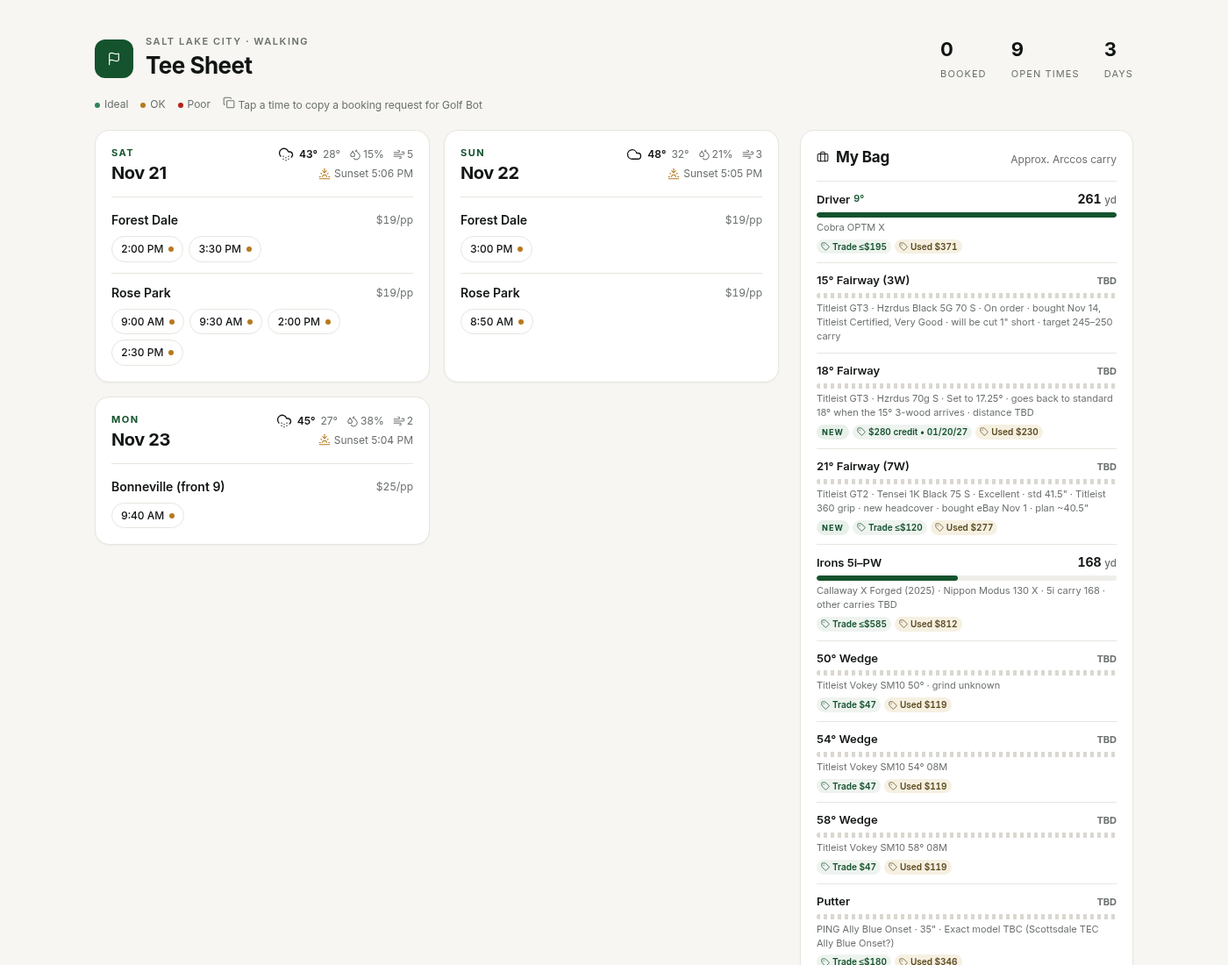
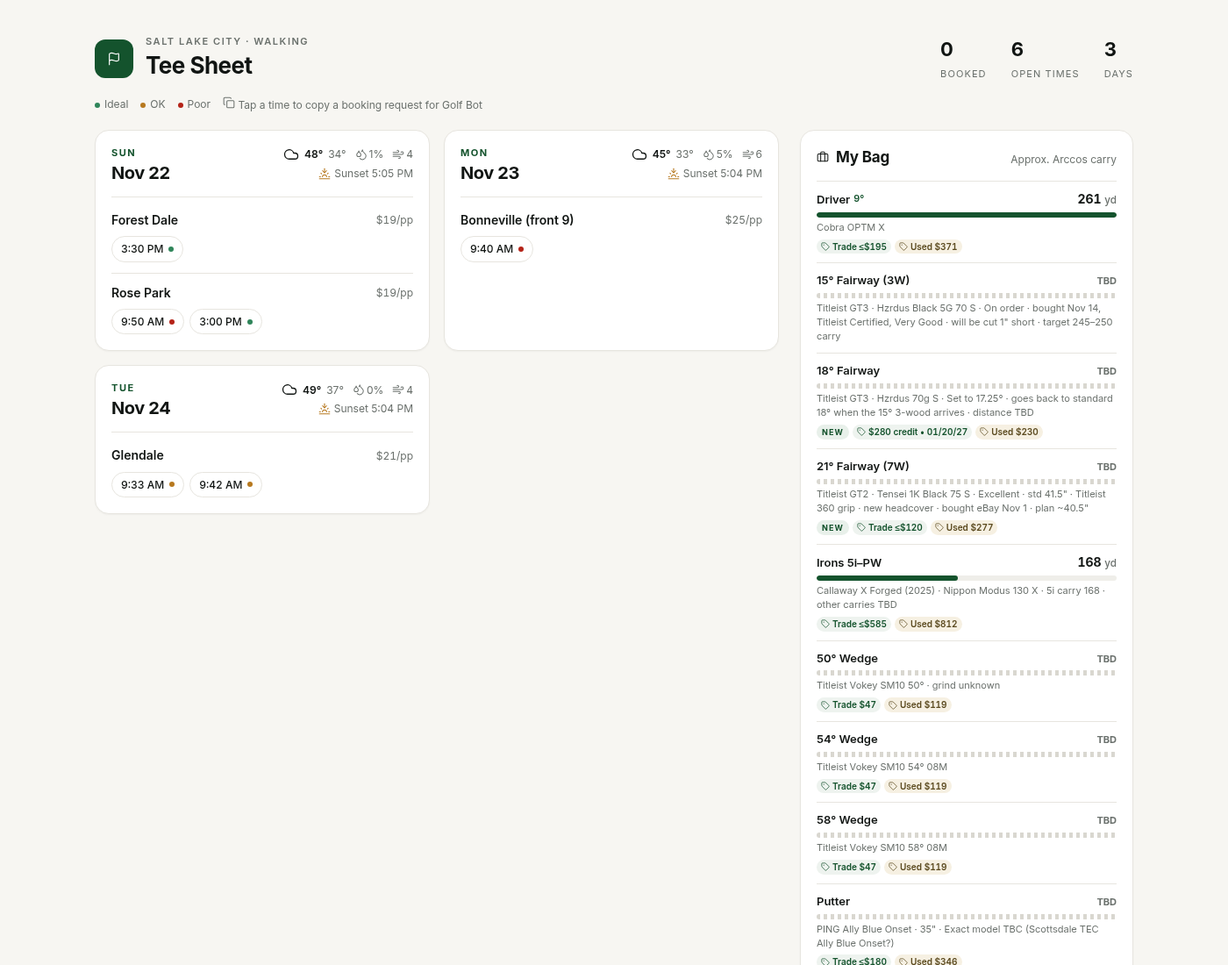
Update schedule 2026-11-21 20:24 MT

diff --git a/index.html b/index.html
@@ -47,10 +47,10 @@ ul{list-style:none;margin:0;padding:0}.ladder{border-top:1px solid var(--ln)}
 @media(max-width:560px){.wrap{padding:22px 16px 48px}h1{font-size:22px}.stats{gap:20px}.grid{grid-template-columns:1fr}}
 </style></head><body><div class="wrap">
 <div class="top"><div class="brand"><div class="logo"><i data-lucide="flag" class="ic "></i></div><div><div class="eyebrow">Salt Lake City · Walking</div><h1>Tee Sheet</h1></div></div>
-<div class="stats"><div class="stat"><b>0</b><span>Booked</span></div><div class="stat"><b>9</b><span>Open times</span></div><div class="stat"><b>3</b><span>Days</span></div></div></div>
+<div class="stats"><div class="stat"><b>0</b><span>Booked</span></div><div class="stat"><b>6</b><span>Open times</span></div><div class="stat"><b>3</b><span>Days</span></div></div></div>
 <div class="legend"><span><i class="dot ideal"></i>Ideal</span><span><i class="dot ok"></i>OK</span><span><i class="dot poor"></i>Poor</span><span><i data-lucide="copy" class="ic s"></i> Tap a time to copy a booking request for Golf Bot</span></div>
-<div class="layout"><div class="grid"><section class="card day"><header><div><div class="dow">Sat</div><div class="dt">Nov 21</div></div><div class="wxc"><div class="sum" title="🌨 Snow (7a–7p)"><i data-lucide="cloud-snow" class="ic "></i><span class="hi">43°</span><span class="lo">28°</span><span class="m"><i data-lucide="droplets" class="ic s"></i>15%</span><span class="m"><i data-lucide="wind" class="ic s"></i>5</span></div><div class="sun"><i data-lucide="sunset" class="ic s"></i>Sunset 5:06 PM</div></div></header><div class="crs"><div class="row"><span class="cn">Forest Dale</span><span class="pr">$19/pp</span></div><div class="tts"><button class="tt ok" data-msg="Book Forest Dale Sat Nov 21 2:00 PM" title="🌨 Snow · 43°F · 15% precip · 5 mph · tap to copy booking request" aria-label="Copy: Book Forest Dale Sat Nov 21 2:00 PM" onclick="cp(this)"><span>2:00 PM</span><i class="dot"></i></button><button class="tt ok" data-msg="Book Forest Dale Sat Nov 21 3:30 PM" title="🌨 Snow · 43°F · 15% precip · 5 mph · tap to copy booking request" aria-label="Copy: Book Forest Dale Sat Nov 21 3:30 PM" onclick="cp(this)"><span>3:30 PM</span><i class="dot"></i></button></div></div><div class="crs"><div class="row"><span class="cn">Rose Park</span><span class="pr">$19/pp</span></div><div class="tts"><button class="tt ok" data-msg="Book Rose Park Sat Nov 21 9:00 AM" title="🌨 Snow · 43°F · 15% precip · 5 mph · tap to copy booking request" aria-label="Copy: Book Rose Park Sat Nov 21 9:00 AM" onclick="cp(this)"><span>9:00 AM</span><i class="dot"></i></button><button class="tt ok" data-msg="Book Rose Park Sat Nov 21 9:30 AM" title="🌨 Snow · 43°F · 15% precip · 5 mph · tap to copy booking request" aria-label="Copy: Book Rose Park Sat Nov 21 9:30 AM" onclick="cp(this)"><span>9:30 AM</span><i class="dot"></i></button><button class="tt ok" data-msg="Book Rose Park Sat Nov 21 2:00 PM" title="🌨 Snow · 43°F · 15% precip · 5 mph · tap to copy booking request" aria-label="Copy: Book Rose Park Sat Nov 21 2:00 PM" onclick="cp(this)"><span>2:00 PM</span><i class="dot"></i></button><button class="tt ok" data-msg="Book Rose Park Sat Nov 21 2:30 PM" title="🌨 Snow · 43°F · 15% precip · 5 mph · tap to copy booking request" aria-label="Copy: Book Rose Park Sat Nov 21 2:30 PM" onclick="cp(this)"><span>2:30 PM</span><i class="dot"></i></button></div></div></section><section class="card day"><header><div><div class="dow">Sun</div><div class="dt">Nov 22</div></div><div class="wxc"><div class="sum" title="☁ Overcast (7a–7p)"><i data-lucide="cloud" class="ic "></i><span class="hi">48°</span><span class="lo">32°</span><span class="m"><i data-lucide="droplets" class="ic s"></i>21%</span><span class="m"><i data-lucide="wind" class="ic s"></i>3</span></div><div class="sun"><i data-lucide="sunset" class="ic s"></i>Sunset 5:05 PM</div></div></header><div class="crs"><div class="row"><span class="cn">Forest Dale</span><span class="pr">$19/pp</span></div><div class="tts"><button class="tt ok" data-msg="Book Forest Dale Sun Nov 22 3:00 PM" title="☁ Overcast · 48°F · 21% precip · 3 mph · tap to copy booking request" aria-label="Copy: Book Forest Dale Sun Nov 22 3:00 PM" onclick="cp(this)"><span>3:00 PM</span><i class="dot"></i></button></div></div><div class="crs"><div class="row"><span class="cn">Rose Park</span><span class="pr">$19/pp</span></div><div class="tts"><button class="tt ok" data-msg="Book Rose Park Sun Nov 22 8:50 AM" title="☁ Overcast · 48°F · 21% precip · 3 mph · tap to copy booking request" aria-label="Copy: Book Rose Park Sun Nov 22 8:50 AM" onclick="cp(this)"><span>8:50 AM</span><i class="dot"></i></button></div></div></section><section class="card day"><header><div><div class="dow">Mon</div><div class="dt">Nov 23</div></div><div class="wxc"><div class="sum" title="🌨 Snow (7a–7p)"><i data-lucide="cloud-snow" class="ic "></i><span class="hi">45°</span><span class="lo">27°</span><span class="m"><i data-lucide="droplets" class="ic s"></i>38%</span><span class="m"><i data-lucide="wind" class="ic s"></i>2</span></div><div class="sun"><i data-lucide="sunset" class="ic s"></i>Sunset 5:04 PM</div></div></header><div class="crs"><div class="row"><span class="cn">Bonneville (front 9)</span><span class="pr">$25/pp</span></div><div class="tts"><button class="tt ok" data-msg="Book Bonneville (front 9) Mon Nov 23 9:40 AM" title="🌨 Snow · 45°F · 38% precip · 2 mph · tap to copy booking request" aria-label="Copy: Book Bonneville (front 9) Mon Nov 23 9:40 AM" onclick="cp(this)"><span>9:40 AM</span><i class="dot"></i></button></div></div></section></div><section class="card bag"><header><h2><i data-lucide="briefcase" class="ic s"></i>My Bag</h2><span class="muted">Approx. Arccos carry</span></header><ul class="ladder"><li class="lad"><div class="l1"><div class="cname">Driver <small>9°</small></div><div class="yd">261 <small>yd</small></div></div><div class="bar"><span style="width:100%"></span></div><div class="muted">Cobra OPTM X</div><div class=bdg><span class="val" title="On in Two trade-in (up-to ceiling) · Cobra OPTM X driver · 2026-11-16"><i data-lucide="tag" class="ic xs"></i>Trade ≤$195</span><span class="val used" title="2nd Swing used OPTM X Stiff: 9° Mint $379.99 (Kai&#x27;li White 60), 10.5° Above Average $362.99 · 2026-11-02"><i data-lucide="tag" class="ic xs"></i>Used $371</span></div></li><li class="lad"><div class="l1"><div class="cname">15° Fairway (3W)</div><div class="yd muted">TBD</div></div><div class="bar tbd"><span></span></div><div class="muted">Titleist GT3 · Hzrdus Black 5G 70 S · On order · bought Nov 14, Titleist Certified, Very Good · will be cut 1&quot; short · target 245–250 carry</div></li><li class="lad"><div class="l1"><div class="cname">18° Fairway</div><div class="yd muted">TBD</div></div><div class="bar tbd"><span></span></div><div class="muted">Titleist GT3 · Hzrdus 70g S · Set to 17.25° · goes back to standard 18° when the 15° 3-wood arrives · distance TBD</div><div class=bdg><span class="pill sm">New</span><span class="val" title="Uinta Golf 90-day guarantee, bought Oct 22, 2026 · 2026-10-22"><i data-lucide="tag" class="ic xs"></i>$280 credit • 01/20/27</span><span class="val used" title="Global Golf used GT3 fairway Excellent $229.99; eBay sold GT3 18° 5W median $231 (Teeworth, 90 days) · 2026-10-26"><i data-lucide="tag" class="ic xs"></i>Used $230</span></div></li><li class="lad"><div class="l1"><div class="cname">21° Fairway (7W)</div><div class="yd muted">TBD</div></div><div class="bar tbd"><span></span></div><div class="muted">Titleist GT2 · Tensei 1K Black 75 S · Excellent · std 41.5&quot; · Titleist 360 grip · new headcover · bought eBay Nov 1 · plan ~40.5&quot;</div><div class=bdg><span class="pill sm">New</span><span class="val" title="On in Two trade-in (up-to ceiling, excellent) · Titleist GT2 fairway · 2026-11-16"><i data-lucide="tag" class="ic xs"></i>Trade ≤$120</span><span class="val used" title="Avg of Global Golf GT2 Very Good $264.99 and Next Round GT2 Excellent $289.99; eBay sold median $200 (45 sales, Face Value Golf) · 2026-10-26"><i data-lucide="tag" class="ic xs"></i>Used $277</span></div></li><li class="lad"><div class="l1"><div class="cname">Irons 5i–PW</div><div class="yd">168 <small>yd</small></div></div><div class="bar"><span style="width:47%"></span></div><div class="muted">Callaway X Forged (2025) · Nippon Modus 130 X · 5i carry 168 · other carries TBD</div><div class=bdg><span class="val" title="On in Two trade-in (up-to ceiling) · Callaway 2025 X Forged iron set; set composition/shaft not specified, so 5i–PW offer may differ · 2026-11-16"><i data-lucide="tag" class="ic xs"></i>Trade ≤$585</span><span class="val used" title="FairwayWire eBay sold avg, X Forged 2025 set (18 sales, mostly 4-PW, mixed shafts); Excellent/Very Good sales $986–$1,200 · 2026-10-26"><i data-lucide="tag" class="ic xs"></i>Used $812</span></div></li><li class="lad"><div class="l1"><div class="cname">50° Wedge</div><div class="yd muted">TBD</div></div><div class="bar tbd"><span></span></div><div class="muted">Titleist Vokey SM10 50° · grind unknown</div><div class=bdg><span class="val" title="2nd Swing store credit via Face Value Golf (SM10 family, avg cond., checked Nov 14); best cash $45–47 · 2026-11-16"><i data-lucide="tag" class="ic xs"></i>Trade $47</span><span class="val used" title="Titleist Certified Pre-Owned SM10 Excellent $119 · 2026-10-26"><i data-lucide="tag" class="ic xs"></i>Used $119</span></div></li><li class="lad"><div class="l1"><div class="cname">54° Wedge</div><div class="yd muted">TBD</div></div><div class="bar tbd"><span></span></div><div class="muted">Titleist Vokey SM10 54° 08M</div><div class=bdg><span class="val" title="2nd Swing store credit via Face Value Golf (SM10 family, avg cond., checked Nov 14); best cash $45–47 · 2026-11-16"><i data-lucide="tag" class="ic xs"></i>Trade $47</span><span class="val used" title="Titleist Certified Pre-Owned SM10 Excellent $119 · 2026-10-26"><i data-lucide="tag" class="ic xs"></i>Used $119</span></div></li><li class="lad"><div class="l1"><div class="cname">58° Wedge</div><div class="yd muted">TBD</div></div><div class="bar tbd"><span></span></div><div class="muted">Titleist Vokey SM10 58° 08M</div><div class=bdg><span class="val" title="2nd Swing store credit via Face Value Golf (SM10 family, avg cond., checked Nov 14); best cash $45–47 · 2026-11-16"><i data-lucide="tag" class="ic xs"></i>Trade $47</span><span class="val used" title="Titleist Certified Pre-Owned SM10 Excellent $119 · 2026-10-26"><i data-lucide="tag" class="ic xs"></i>Used $119</span></div></li><li class="lad"><div class="l1"><div class="cname">Putter</div><div class="yd muted">TBD</div></div><div class="bar tbd"><span></span></div><div class="muted">PING Ally Blue Onset · 35&quot; · Exact model TBC (Scottsdale TEC Ally Blue Onset?)</div><div class=bdg><span class="val" title="On in Two trade-in (up-to ceiling) · Scottsdale TEC Ally Blue Onset; PLD SE Ally Blue 4 Onset $185 · 2026-11-16"><i data-lucide="tag" class="ic xs"></i>Trade ≤$180</span><span class="val used" title="ClubChecks used target, Scottsdale TEC Ally Blue Onset; Carl&#x27;s Golfland 35&quot; Very Good $349.99 · 2026-10-26"><i data-lucide="tag" class="ic xs"></i>Used $346</span></div></li></ul><div class="subs"><div class="sub"><h3><i data-lucide="repeat" class="ic s"></i>Flagged to replace</h3><ul class="lst replace"><li><div class="it"><div class="l1"><div class="cname">Callaway X Forged irons</div></div><div class="muted">Considering trade for P7CB heads, same Modus 130 X</div><div class=bdg><span class="val" title="Jason: trade-in guarantee value, trade by Nov 15, 2026 (deadline approx., per Jason) · 2026-10-26"><i data-lucide="tag" class="ic xs"></i>$1400 credit • 11/15/26</span><span class="val used" title="FairwayWire eBay sold avg, X Forged 2025 set (18 sales, mostly 4-PW, mixed shafts); Excellent/Very Good sales $986–$1,200 · 2026-10-26"><i data-lucide="tag" class="ic xs"></i>Used $812</span></div></div></li></ul></div><div class="sub"><h3><i data-lucide="pause-circle" class="ic s"></i>Sidelined</h3><ul class="lst sidelined"><li><div class="it"><div class="l1"><div class="cname">Odyssey Jailbird Mini · slant neck 35&quot;</div></div><div class="muted">Keep, go back to, or trade?</div><div class=bdg><span class="val" title="On in Two trade-in ceilings: Ai-ONE Jailbird Mini S $95 – Ai-DUAL Jailbird Mini $105 (exact version TBC) · 2026-11-16"><i data-lucide="tag" class="ic xs"></i>Trade $95–105</span><span class="val used" title="Golf Club Index avg sold, Odyssey Ai-ONE Jailbird Mini (exact version TBC) · 2026-10-26"><i data-lucide="tag" class="ic xs"></i>Used $194</span></div></div></li><li><div class="it"><div class="l1"><div class="cname">3 Hybrid</div><div class=yd>195 <small>yd</small></div></div><div class="muted">Sidelined Nov 8, 2026 · was flagged to come out when the 21° GT goes in</div><div class=bdg><span class="val" title="On in Two trade-in (up-to ceiling) · 2026-11-16"><i data-lucide="tag" class="ic xs"></i>Trade ≤$70</span><span class="val used" title="Face Value Golf typical used asking, Paradym Super hybrid Above Average grade (Callaway Pre-Owned from $120 Avg) · 2026-10-26"><i data-lucide="tag" class="ic xs"></i>Used $178</span></div></div></li><li><div class="it"><div class="l1"><div class="cname">5 Hybrid</div><div class=yd>186 <small>yd</small></div></div><div class="muted">Sidelined Nov 15, 2026 · comes out when the 15° 3-wood goes in</div><div class=bdg><span class="val" title="On in Two trade-in (up-to ceiling) · 2026-11-16"><i data-lucide="tag" class="ic xs"></i>Trade ≤$70</span><span class="val used" title="Face Value Golf typical used asking, Paradym Super hybrid Above Average grade (Callaway Pre-Owned from $120 Avg) · 2026-10-26"><i data-lucide="tag" class="ic xs"></i>Used $178</span></div></div></li></ul></div><div class="sub"><h3><i data-lucide="plus-circle" class="ic s"></i>Interested in adding</h3><ul class="lst add"><li><div class="it"><div class="l1"><div class="cname">TaylorMade P7CB irons</div></div><div class="muted">Same Modus 130 X shafts</div><div class=bdg><span class="val" title="Face Value Golf: best cash offer, iGolf Value Guide, 7-club set, Average ($61.50/club), checked Oct 11 · 2026-10-26"><i data-lucide="tag" class="ic xs"></i>Trade $431 set</span><span class="val used" title="Face Value Golf typical used asking, 7-club set, median of 44 listings (Average or better), checked Oct 11; Global Golf Average 4-PW $760 · 2026-10-26"><i data-lucide="tag" class="ic xs"></i>Used $859</span></div></div></li><li><div class="it"><div class="l1"><div class="cname">Titleist Vokey SM10 46° 10F</div></div><div class="muted">Backup PW option if the X Forged PW doesn&#x27;t work out or gets damaged; not in the bag</div><div class=bdg><span class="val" title="2nd Swing store credit via Face Value Golf (SM10 family, avg cond.) · 2026-10-23"><i data-lucide="tag" class="ic xs"></i>Trade $47</span><span class="val used" title="Titleist Certified Pre-Owned SM10 Excellent $119 · 2026-10-26"><i data-lucide="tag" class="ic xs"></i>Used $119</span></div></div></li></ul></div><div class="sub"><h3><i data-lucide="archive" class="ic s"></i>Retired</h3><ul class="lst retired"><li><div class="it"><div class="l1"><div class="cname">Paradym Ai Smoke Max 3W</div></div><div class="muted">~211 yd, right miss · traded in for GT3 18° at Uinta Golf, Oct 2026</div></div></li></ul></div></div></section></div><section class="card lenchart"><header><h2><i data-lucide="ruler" class="ic s"></i>Titleist GT/GTS woods + GT1 hybrid lengths</h2></header><div class="tw"><table><thead><tr><th>Loft</th><th>Club</th><th>Models</th><th>Std</th><th>−½"</th><th>−1"</th></tr></thead><tbody><tr><td>13.5°</td><td>3-wood</td><td class="muted">GT2, GTS2</td><td>43"</td><td>42.5"</td><td>42"</td></tr><tr><td>15°</td><td>3-wood</td><td class="muted">GT1, GT2, GT3, GTS</td><td>43"</td><td>42.5"</td><td>42"</td></tr><tr><td>16.5°</td><td>4-wood</td><td class="muted">GT2, GT3, GTS</td><td>43"</td><td>42.5"</td><td>42"</td></tr><tr class="inbag"><td>18°</td><td>5-wood (mine, GT3) <span class="mtag">In bag</span></td><td class="muted">GT1, GT2, GT3, GTS</td><td>42"</td><td class=hl>41.5"</td><td>41"</td></tr><tr><td>20°</td><td>4-hybrid</td><td class="muted">GT1 hybrid</td><td>40.5"</td><td>40"</td><td>39.5"</td></tr><tr class="inbag"><td>21°</td><td>7-wood <span class="mtag">In bag</span></td><td class="muted">GT1, GT2, GTS</td><td>41.5"</td><td>41"</td><td class=hl>40.5"</td></tr><tr class="target"><td>23°</td><td>5-hybrid <span class="mtag">Target</span> <span class="muted">set to 24.5°</span></td><td class="muted">GT1 hybrid</td><td>40"</td><td>39.5"</td><td>39"</td></tr><tr class="target"><td>24°</td><td>9-wood <span class="mtag">Target</span></td><td class="muted">GT1 only</td><td>41"</td><td>40.5"</td><td class=hl>40"</td></tr><tr><td>26°</td><td>6-hybrid</td><td class="muted">GT1 hybrid</td><td>39.5"</td><td>39"</td><td>38.5"</td></tr><tr><td>29°</td><td>7-hybrid</td><td class="muted">GT1 hybrid</td><td>39"</td><td>38.5"</td><td>38"</td></tr></tbody></table></div><p class="muted">Row marks: In bag (GT3 18° 5-wood, GT2 21° 7-wood set 22.5°) and Target (GT1 23° hybrid set 24.5°, GT1 24° 9-wood). Highlighted cells = shortening plan in ~½" steps (5-wood 41.5", 7-wood ~40.5" or 9-wood ~40"). GT1 23° hybrid is already 40" stock. Add ~2g head weight per ½" cut. GT1 hybrids ship with a .335" fairway tip unless custom-ordered with .370". Source: Titleist specs.</p></section>
-<div class="foot"><i data-lucide="refresh-cw" class="ic s"></i>Updated Sat Nov 21 · 7:36 AM MT · Checked 7:34 AM MST Nov 21. Chronogolf Upcoming empty. Times on the sheet take 1 or 1–2 players. Saturday: Glendale and Bonneville had no times listed. Forest Dale 2:00 and 3:30 PM (1–2); Rose Park 9:00 and 9:30 AM (single only), 2:00 and 2:30 PM (1–2). Saturday 2+: Forest Dale 9:30, 9:40, 9:50 AM and 2:50, 3:10, 3:20, 3:40 PM; Rose Park 8:40–9:50 AM except 9:00 and 9:30, and 2:10, 2:20, 2:40, 2:50, 3:00 PM. Sunday: Glendale had no times listed. Forest Dale 3:00 PM (1–2); Rose Park 8:50 AM (1–2). Sunday 2+: Bonneville 10th tee 9:30, 9:40, 9:50 AM ($23); Bonneville front 2:20–3:00 PM; Forest Dale 3:10–3:30 PM; Rose Park 9:10 AM and 2:00–3:00 PM. Monday: Bonneville 9:40 AM (single only). Monday 2+: Glendale front 2:03–2:57 PM; Bonneville 9:50 AM and 2:00–3:00 PM; Forest Dale 9:50 AM and 2:00–3:30 PM; Rose Park 8:30–9:50 AM and 2:00–3:00 PM. Mick Riley is closed for the off season. Walking vs cart not shown. ForeUp unverified. · Weather: NWS</div></div>
+<div class="layout"><div class="grid"><section class="card day"><header><div><div class="dow">Sun</div><div class="dt">Nov 22</div></div><div class="wxc"><div class="sum" title="☁ Overcast (7a–7p)"><i data-lucide="cloud" class="ic "></i><span class="hi">48°</span><span class="lo">34°</span><span class="m"><i data-lucide="droplets" class="ic s"></i>1%</span><span class="m"><i data-lucide="wind" class="ic s"></i>4</span></div><div class="sun"><i data-lucide="sunset" class="ic s"></i>Sunset 5:05 PM</div></div></header><div class="crs"><div class="row"><span class="cn">Forest Dale</span><span class="pr">$19/pp</span></div><div class="tts"><button class="tt ideal" data-msg="Book Forest Dale Sun Nov 22 3:30 PM" title="☁ Overcast · 48°F · 1% precip · 1 mph · tap to copy booking request" aria-label="Copy: Book Forest Dale Sun Nov 22 3:30 PM" onclick="cp(this)"><span>3:30 PM</span><i class="dot"></i></button></div></div><div class="crs"><div class="row"><span class="cn">Rose Park</span><span class="pr">$19/pp</span></div><div class="tts"><button class="tt poor" data-msg="Book Rose Park Sun Nov 22 9:50 AM" title="☁ Overcast · 38°F · 0% precip · 0 mph · tap to copy booking request" aria-label="Copy: Book Rose Park Sun Nov 22 9:50 AM" onclick="cp(this)"><span>9:50 AM</span><i class="dot"></i></button><button class="tt ideal" data-msg="Book Rose Park Sun Nov 22 3:00 PM" title="☁ Overcast · 48°F · 1% precip · 1 mph · tap to copy booking request" aria-label="Copy: Book Rose Park Sun Nov 22 3:00 PM" onclick="cp(this)"><span>3:00 PM</span><i class="dot"></i></button></div></div></section><section class="card day"><header><div><div class="dow">Mon</div><div class="dt">Nov 23</div></div><div class="wxc"><div class="sum" title="☁ Overcast (7a–7p)"><i data-lucide="cloud" class="ic "></i><span class="hi">45°</span><span class="lo">33°</span><span class="m"><i data-lucide="droplets" class="ic s"></i>5%</span><span class="m"><i data-lucide="wind" class="ic s"></i>6</span></div><div class="sun"><i data-lucide="sunset" class="ic s"></i>Sunset 5:04 PM</div></div></header><div class="crs"><div class="row"><span class="cn">Bonneville (front 9)</span><span class="pr">$25/pp</span></div><div class="tts"><button class="tt poor" data-msg="Book Bonneville (front 9) Mon Nov 23 9:40 AM" title="☁ Overcast · 35°F · 3% precip · 1 mph · tap to copy booking request" aria-label="Copy: Book Bonneville (front 9) Mon Nov 23 9:40 AM" onclick="cp(this)"><span>9:40 AM</span><i class="dot"></i></button></div></div></section><section class="card day"><header><div><div class="dow">Tue</div><div class="dt">Nov 24</div></div><div class="wxc"><div class="sum" title="☁ Overcast (7a–7p)"><i data-lucide="cloud" class="ic "></i><span class="hi">49°</span><span class="lo">37°</span><span class="m"><i data-lucide="droplets" class="ic s"></i>0%</span><span class="m"><i data-lucide="wind" class="ic s"></i>4</span></div><div class="sun"><i data-lucide="sunset" class="ic s"></i>Sunset 5:04 PM</div></div></header><div class="crs"><div class="row"><span class="cn">Glendale</span><span class="pr">$21/pp</span></div><div class="tts"><button class="tt ok" data-msg="Book Glendale Tue Nov 24 9:33 AM" title="☁ Overcast · 39°F · 0% precip · 3 mph · tap to copy booking request" aria-label="Copy: Book Glendale Tue Nov 24 9:33 AM" onclick="cp(this)"><span>9:33 AM</span><i class="dot"></i></button><button class="tt ok" data-msg="Book Glendale Tue Nov 24 9:42 AM" title="☁ Overcast · 39°F · 0% precip · 3 mph · tap to copy booking request" aria-label="Copy: Book Glendale Tue Nov 24 9:42 AM" onclick="cp(this)"><span>9:42 AM</span><i class="dot"></i></button></div></div></section></div><section class="card bag"><header><h2><i data-lucide="briefcase" class="ic s"></i>My Bag</h2><span class="muted">Approx. Arccos carry</span></header><ul class="ladder"><li class="lad"><div class="l1"><div class="cname">Driver <small>9°</small></div><div class="yd">261 <small>yd</small></div></div><div class="bar"><span style="width:100%"></span></div><div class="muted">Cobra OPTM X</div><div class=bdg><span class="val" title="On in Two trade-in (up-to ceiling) · Cobra OPTM X driver · 2026-11-16"><i data-lucide="tag" class="ic xs"></i>Trade ≤$195</span><span class="val used" title="2nd Swing used OPTM X Stiff: 9° Mint $379.99 (Kai&#x27;li White 60), 10.5° Above Average $362.99 · 2026-11-02"><i data-lucide="tag" class="ic xs"></i>Used $371</span></div></li><li class="lad"><div class="l1"><div class="cname">15° Fairway (3W)</div><div class="yd muted">TBD</div></div><div class="bar tbd"><span></span></div><div class="muted">Titleist GT3 · Hzrdus Black 5G 70 S · On order · bought Nov 14, Titleist Certified, Very Good · will be cut 1&quot; short · target 245–250 carry</div></li><li class="lad"><div class="l1"><div class="cname">18° Fairway</div><div class="yd muted">TBD</div></div><div class="bar tbd"><span></span></div><div class="muted">Titleist GT3 · Hzrdus 70g S · Set to 17.25° · goes back to standard 18° when the 15° 3-wood arrives · distance TBD</div><div class=bdg><span class="pill sm">New</span><span class="val" title="Uinta Golf 90-day guarantee, bought Oct 22, 2026 · 2026-10-22"><i data-lucide="tag" class="ic xs"></i>$280 credit • 01/20/27</span><span class="val used" title="Global Golf used GT3 fairway Excellent $229.99; eBay sold GT3 18° 5W median $231 (Teeworth, 90 days) · 2026-10-26"><i data-lucide="tag" class="ic xs"></i>Used $230</span></div></li><li class="lad"><div class="l1"><div class="cname">21° Fairway (7W)</div><div class="yd muted">TBD</div></div><div class="bar tbd"><span></span></div><div class="muted">Titleist GT2 · Tensei 1K Black 75 S · Excellent · std 41.5&quot; · Titleist 360 grip · new headcover · bought eBay Nov 1 · plan ~40.5&quot;</div><div class=bdg><span class="pill sm">New</span><span class="val" title="On in Two trade-in (up-to ceiling, excellent) · Titleist GT2 fairway · 2026-11-16"><i data-lucide="tag" class="ic xs"></i>Trade ≤$120</span><span class="val used" title="Avg of Global Golf GT2 Very Good $264.99 and Next Round GT2 Excellent $289.99; eBay sold median $200 (45 sales, Face Value Golf) · 2026-10-26"><i data-lucide="tag" class="ic xs"></i>Used $277</span></div></li><li class="lad"><div class="l1"><div class="cname">Irons 5i–PW</div><div class="yd">168 <small>yd</small></div></div><div class="bar"><span style="width:47%"></span></div><div class="muted">Callaway X Forged (2025) · Nippon Modus 130 X · 5i carry 168 · other carries TBD</div><div class=bdg><span class="val" title="On in Two trade-in (up-to ceiling) · Callaway 2025 X Forged iron set; set composition/shaft not specified, so 5i–PW offer may differ · 2026-11-16"><i data-lucide="tag" class="ic xs"></i>Trade ≤$585</span><span class="val used" title="FairwayWire eBay sold avg, X Forged 2025 set (18 sales, mostly 4-PW, mixed shafts); Excellent/Very Good sales $986–$1,200 · 2026-10-26"><i data-lucide="tag" class="ic xs"></i>Used $812</span></div></li><li class="lad"><div class="l1"><div class="cname">50° Wedge</div><div class="yd muted">TBD</div></div><div class="bar tbd"><span></span></div><div class="muted">Titleist Vokey SM10 50° · grind unknown</div><div class=bdg><span class="val" title="2nd Swing store credit via Face Value Golf (SM10 family, avg cond., checked Nov 14); best cash $45–47 · 2026-11-16"><i data-lucide="tag" class="ic xs"></i>Trade $47</span><span class="val used" title="Titleist Certified Pre-Owned SM10 Excellent $119 · 2026-10-26"><i data-lucide="tag" class="ic xs"></i>Used $119</span></div></li><li class="lad"><div class="l1"><div class="cname">54° Wedge</div><div class="yd muted">TBD</div></div><div class="bar tbd"><span></span></div><div class="muted">Titleist Vokey SM10 54° 08M</div><div class=bdg><span class="val" title="2nd Swing store credit via Face Value Golf (SM10 family, avg cond., checked Nov 14); best cash $45–47 · 2026-11-16"><i data-lucide="tag" class="ic xs"></i>Trade $47</span><span class="val used" title="Titleist Certified Pre-Owned SM10 Excellent $119 · 2026-10-26"><i data-lucide="tag" class="ic xs"></i>Used $119</span></div></li><li class="lad"><div class="l1"><div class="cname">58° Wedge</div><div class="yd muted">TBD</div></div><div class="bar tbd"><span></span></div><div class="muted">Titleist Vokey SM10 58° 08M</div><div class=bdg><span class="val" title="2nd Swing store credit via Face Value Golf (SM10 family, avg cond., checked Nov 14); best cash $45–47 · 2026-11-16"><i data-lucide="tag" class="ic xs"></i>Trade $47</span><span class="val used" title="Titleist Certified Pre-Owned SM10 Excellent $119 · 2026-10-26"><i data-lucide="tag" class="ic xs"></i>Used $119</span></div></li><li class="lad"><div class="l1"><div class="cname">Putter</div><div class="yd muted">TBD</div></div><div class="bar tbd"><span></span></div><div class="muted">PING Ally Blue Onset · 35&quot; · Exact model TBC (Scottsdale TEC Ally Blue Onset?)</div><div class=bdg><span class="val" title="On in Two trade-in (up-to ceiling) · Scottsdale TEC Ally Blue Onset; PLD SE Ally Blue 4 Onset $185 · 2026-11-16"><i data-lucide="tag" class="ic xs"></i>Trade ≤$180</span><span class="val used" title="ClubChecks used target, Scottsdale TEC Ally Blue Onset; Carl&#x27;s Golfland 35&quot; Very Good $349.99 · 2026-10-26"><i data-lucide="tag" class="ic xs"></i>Used $346</span></div></li></ul><div class="subs"><div class="sub"><h3><i data-lucide="repeat" class="ic s"></i>Flagged to replace</h3><ul class="lst replace"><li><div class="it"><div class="l1"><div class="cname">Callaway X Forged irons</div></div><div class="muted">Considering trade for P7CB heads, same Modus 130 X</div><div class=bdg><span class="val" title="Jason: trade-in guarantee value, trade by Nov 15, 2026 (deadline approx., per Jason) · 2026-10-26"><i data-lucide="tag" class="ic xs"></i>$1400 credit • 11/15/26</span><span class="val used" title="FairwayWire eBay sold avg, X Forged 2025 set (18 sales, mostly 4-PW, mixed shafts); Excellent/Very Good sales $986–$1,200 · 2026-10-26"><i data-lucide="tag" class="ic xs"></i>Used $812</span></div></div></li></ul></div><div class="sub"><h3><i data-lucide="pause-circle" class="ic s"></i>Sidelined</h3><ul class="lst sidelined"><li><div class="it"><div class="l1"><div class="cname">Odyssey Jailbird Mini · slant neck 35&quot;</div></div><div class="muted">Keep, go back to, or trade?</div><div class=bdg><span class="val" title="On in Two trade-in ceilings: Ai-ONE Jailbird Mini S $95 – Ai-DUAL Jailbird Mini $105 (exact version TBC) · 2026-11-16"><i data-lucide="tag" class="ic xs"></i>Trade $95–105</span><span class="val used" title="Golf Club Index avg sold, Odyssey Ai-ONE Jailbird Mini (exact version TBC) · 2026-10-26"><i data-lucide="tag" class="ic xs"></i>Used $194</span></div></div></li><li><div class="it"><div class="l1"><div class="cname">3 Hybrid</div><div class=yd>195 <small>yd</small></div></div><div class="muted">Sidelined Nov 8, 2026 · was flagged to come out when the 21° GT goes in</div><div class=bdg><span class="val" title="On in Two trade-in (up-to ceiling) · 2026-11-16"><i data-lucide="tag" class="ic xs"></i>Trade ≤$70</span><span class="val used" title="Face Value Golf typical used asking, Paradym Super hybrid Above Average grade (Callaway Pre-Owned from $120 Avg) · 2026-10-26"><i data-lucide="tag" class="ic xs"></i>Used $178</span></div></div></li><li><div class="it"><div class="l1"><div class="cname">5 Hybrid</div><div class=yd>186 <small>yd</small></div></div><div class="muted">Sidelined Nov 15, 2026 · comes out when the 15° 3-wood goes in</div><div class=bdg><span class="val" title="On in Two trade-in (up-to ceiling) · 2026-11-16"><i data-lucide="tag" class="ic xs"></i>Trade ≤$70</span><span class="val used" title="Face Value Golf typical used asking, Paradym Super hybrid Above Average grade (Callaway Pre-Owned from $120 Avg) · 2026-10-26"><i data-lucide="tag" class="ic xs"></i>Used $178</span></div></div></li></ul></div><div class="sub"><h3><i data-lucide="plus-circle" class="ic s"></i>Interested in adding</h3><ul class="lst add"><li><div class="it"><div class="l1"><div class="cname">TaylorMade P7CB irons</div></div><div class="muted">Same Modus 130 X shafts</div><div class=bdg><span class="val" title="Face Value Golf: best cash offer, iGolf Value Guide, 7-club set, Average ($61.50/club), checked Oct 11 · 2026-10-26"><i data-lucide="tag" class="ic xs"></i>Trade $431 set</span><span class="val used" title="Face Value Golf typical used asking, 7-club set, median of 44 listings (Average or better), checked Oct 11; Global Golf Average 4-PW $760 · 2026-10-26"><i data-lucide="tag" class="ic xs"></i>Used $859</span></div></div></li><li><div class="it"><div class="l1"><div class="cname">Titleist Vokey SM10 46° 10F</div></div><div class="muted">Backup PW option if the X Forged PW doesn&#x27;t work out or gets damaged; not in the bag</div><div class=bdg><span class="val" title="2nd Swing store credit via Face Value Golf (SM10 family, avg cond.) · 2026-10-23"><i data-lucide="tag" class="ic xs"></i>Trade $47</span><span class="val used" title="Titleist Certified Pre-Owned SM10 Excellent $119 · 2026-10-26"><i data-lucide="tag" class="ic xs"></i>Used $119</span></div></div></li></ul></div><div class="sub"><h3><i data-lucide="archive" class="ic s"></i>Retired</h3><ul class="lst retired"><li><div class="it"><div class="l1"><div class="cname">Paradym Ai Smoke Max 3W</div></div><div class="muted">~211 yd, right miss · traded in for GT3 18° at Uinta Golf, Oct 2026</div></div></li></ul></div></div></section></div><section class="card lenchart"><header><h2><i data-lucide="ruler" class="ic s"></i>Titleist GT/GTS woods + GT1 hybrid lengths</h2></header><div class="tw"><table><thead><tr><th>Loft</th><th>Club</th><th>Models</th><th>Std</th><th>−½"</th><th>−1"</th></tr></thead><tbody><tr><td>13.5°</td><td>3-wood</td><td class="muted">GT2, GTS2</td><td>43"</td><td>42.5"</td><td>42"</td></tr><tr><td>15°</td><td>3-wood</td><td class="muted">GT1, GT2, GT3, GTS</td><td>43"</td><td>42.5"</td><td>42"</td></tr><tr><td>16.5°</td><td>4-wood</td><td class="muted">GT2, GT3, GTS</td><td>43"</td><td>42.5"</td><td>42"</td></tr><tr class="inbag"><td>18°</td><td>5-wood (mine, GT3) <span class="mtag">In bag</span></td><td class="muted">GT1, GT2, GT3, GTS</td><td>42"</td><td class=hl>41.5"</td><td>41"</td></tr><tr><td>20°</td><td>4-hybrid</td><td class="muted">GT1 hybrid</td><td>40.5"</td><td>40"</td><td>39.5"</td></tr><tr class="inbag"><td>21°</td><td>7-wood <span class="mtag">In bag</span></td><td class="muted">GT1, GT2, GTS</td><td>41.5"</td><td>41"</td><td class=hl>40.5"</td></tr><tr class="target"><td>23°</td><td>5-hybrid <span class="mtag">Target</span> <span class="muted">set to 24.5°</span></td><td class="muted">GT1 hybrid</td><td>40"</td><td>39.5"</td><td>39"</td></tr><tr class="target"><td>24°</td><td>9-wood <span class="mtag">Target</span></td><td class="muted">GT1 only</td><td>41"</td><td>40.5"</td><td class=hl>40"</td></tr><tr><td>26°</td><td>6-hybrid</td><td class="muted">GT1 hybrid</td><td>39.5"</td><td>39"</td><td>38.5"</td></tr><tr><td>29°</td><td>7-hybrid</td><td class="muted">GT1 hybrid</td><td>39"</td><td>38.5"</td><td>38"</td></tr></tbody></table></div><p class="muted">Row marks: In bag (GT3 18° 5-wood, GT2 21° 7-wood set 22.5°) and Target (GT1 23° hybrid set 24.5°, GT1 24° 9-wood). Highlighted cells = shortening plan in ~½" steps (5-wood 41.5", 7-wood ~40.5" or 9-wood ~40"). GT1 23° hybrid is already 40" stock. Add ~2g head weight per ½" cut. GT1 hybrids ship with a .335" fairway tip unless custom-ordered with .370". Source: Titleist specs.</p></section>
+<div class="foot"><i data-lucide="refresh-cw" class="ic s"></i>Updated Sat Nov 21 · 8:23 PM MT · Checked 8:22 PM MT Sat Nov 21. Chronogolf Upcoming empty. Times on the sheet take 1 or 1–2 players and are in Mountain time. Sunday: Glendale had no times listed. Forest Dale 3:30 PM (single only); Rose Park 9:50 AM and 3:00 PM (single only). Sunday 2+: Bonneville 10th tee 9:30, 9:40, 9:50 AM ($23); Bonneville front 2:20, 2:40, 2:50, 3:00 PM; Rose Park 9:10 and 9:30 AM and 2:00–2:50 PM. Monday: Bonneville 9:40 AM (single only). Monday 2+: Glendale front 2:03–2:57 PM; Bonneville 9:50 AM and 2:00–3:00 PM (10th tee none); Forest Dale 9:50 AM and 2:00–3:30 PM; Rose Park 8:30–9:50 AM and 2:00–3:00 PM. Tuesday: Glendale 9:33 AM (single only) and 9:42 AM (1–2). Tuesday times are from the public feed and are likely bookable starting Sun Nov 22 (3-day window). Tuesday 2+: Glendale 2:03–2:57 PM (back 9 none); Bonneville 9:40, 9:50 AM and 2:00–3:00 PM (10th tee none); Forest Dale 2:00–3:30 PM; Rose Park 8:30–9:50 AM and 2:00–3:00 PM. Mick Riley is closed for the off season. Walking vs cart not shown. ForeUp unverified. · Weather: Open-Meteo</div></div>
 <div class="toast" id="toast" role="status"><i data-lucide="check" class="ic s"></i><span>Copied — paste in Golf Bot chat</span></div>
 <script>
 function cp(b){navigator.clipboard&&navigator.clipboard.writeText(b.dataset.msg);b.classList.add('copied');const t=document.getElementById('toast');t.classList.add('on');setTimeout(()=>{b.classList.remove('copied');t.classList.remove('on')},1600)}
